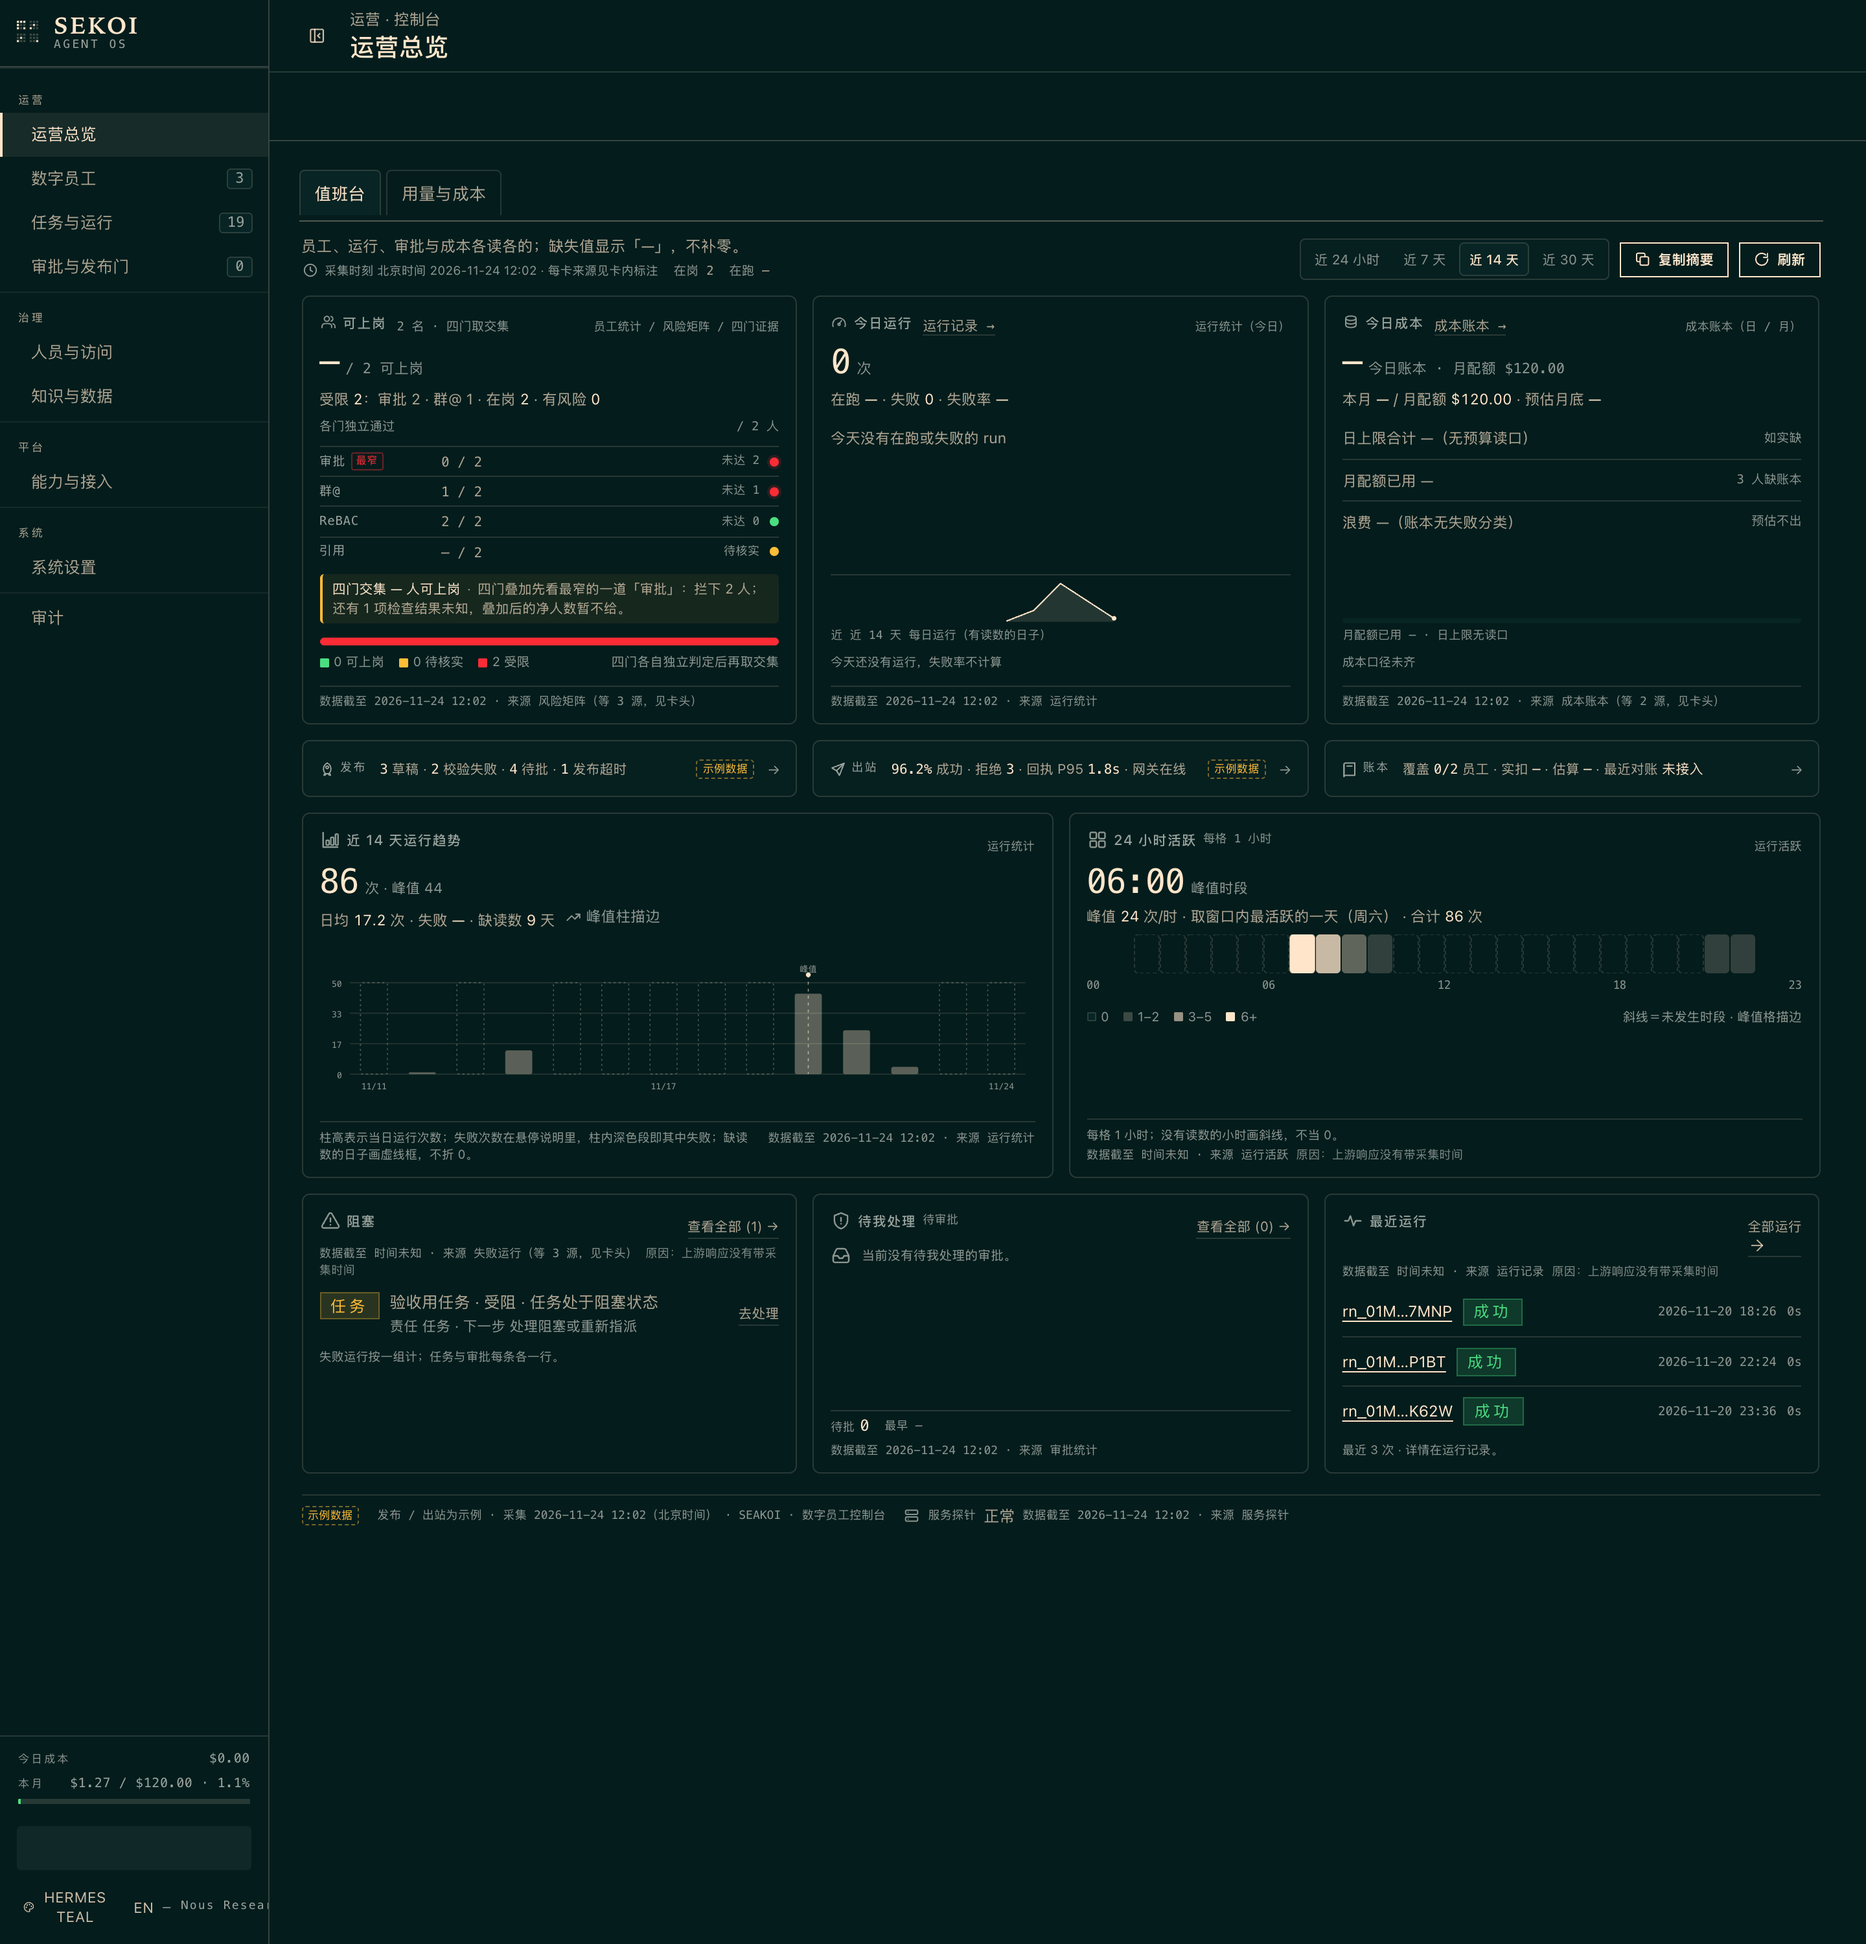
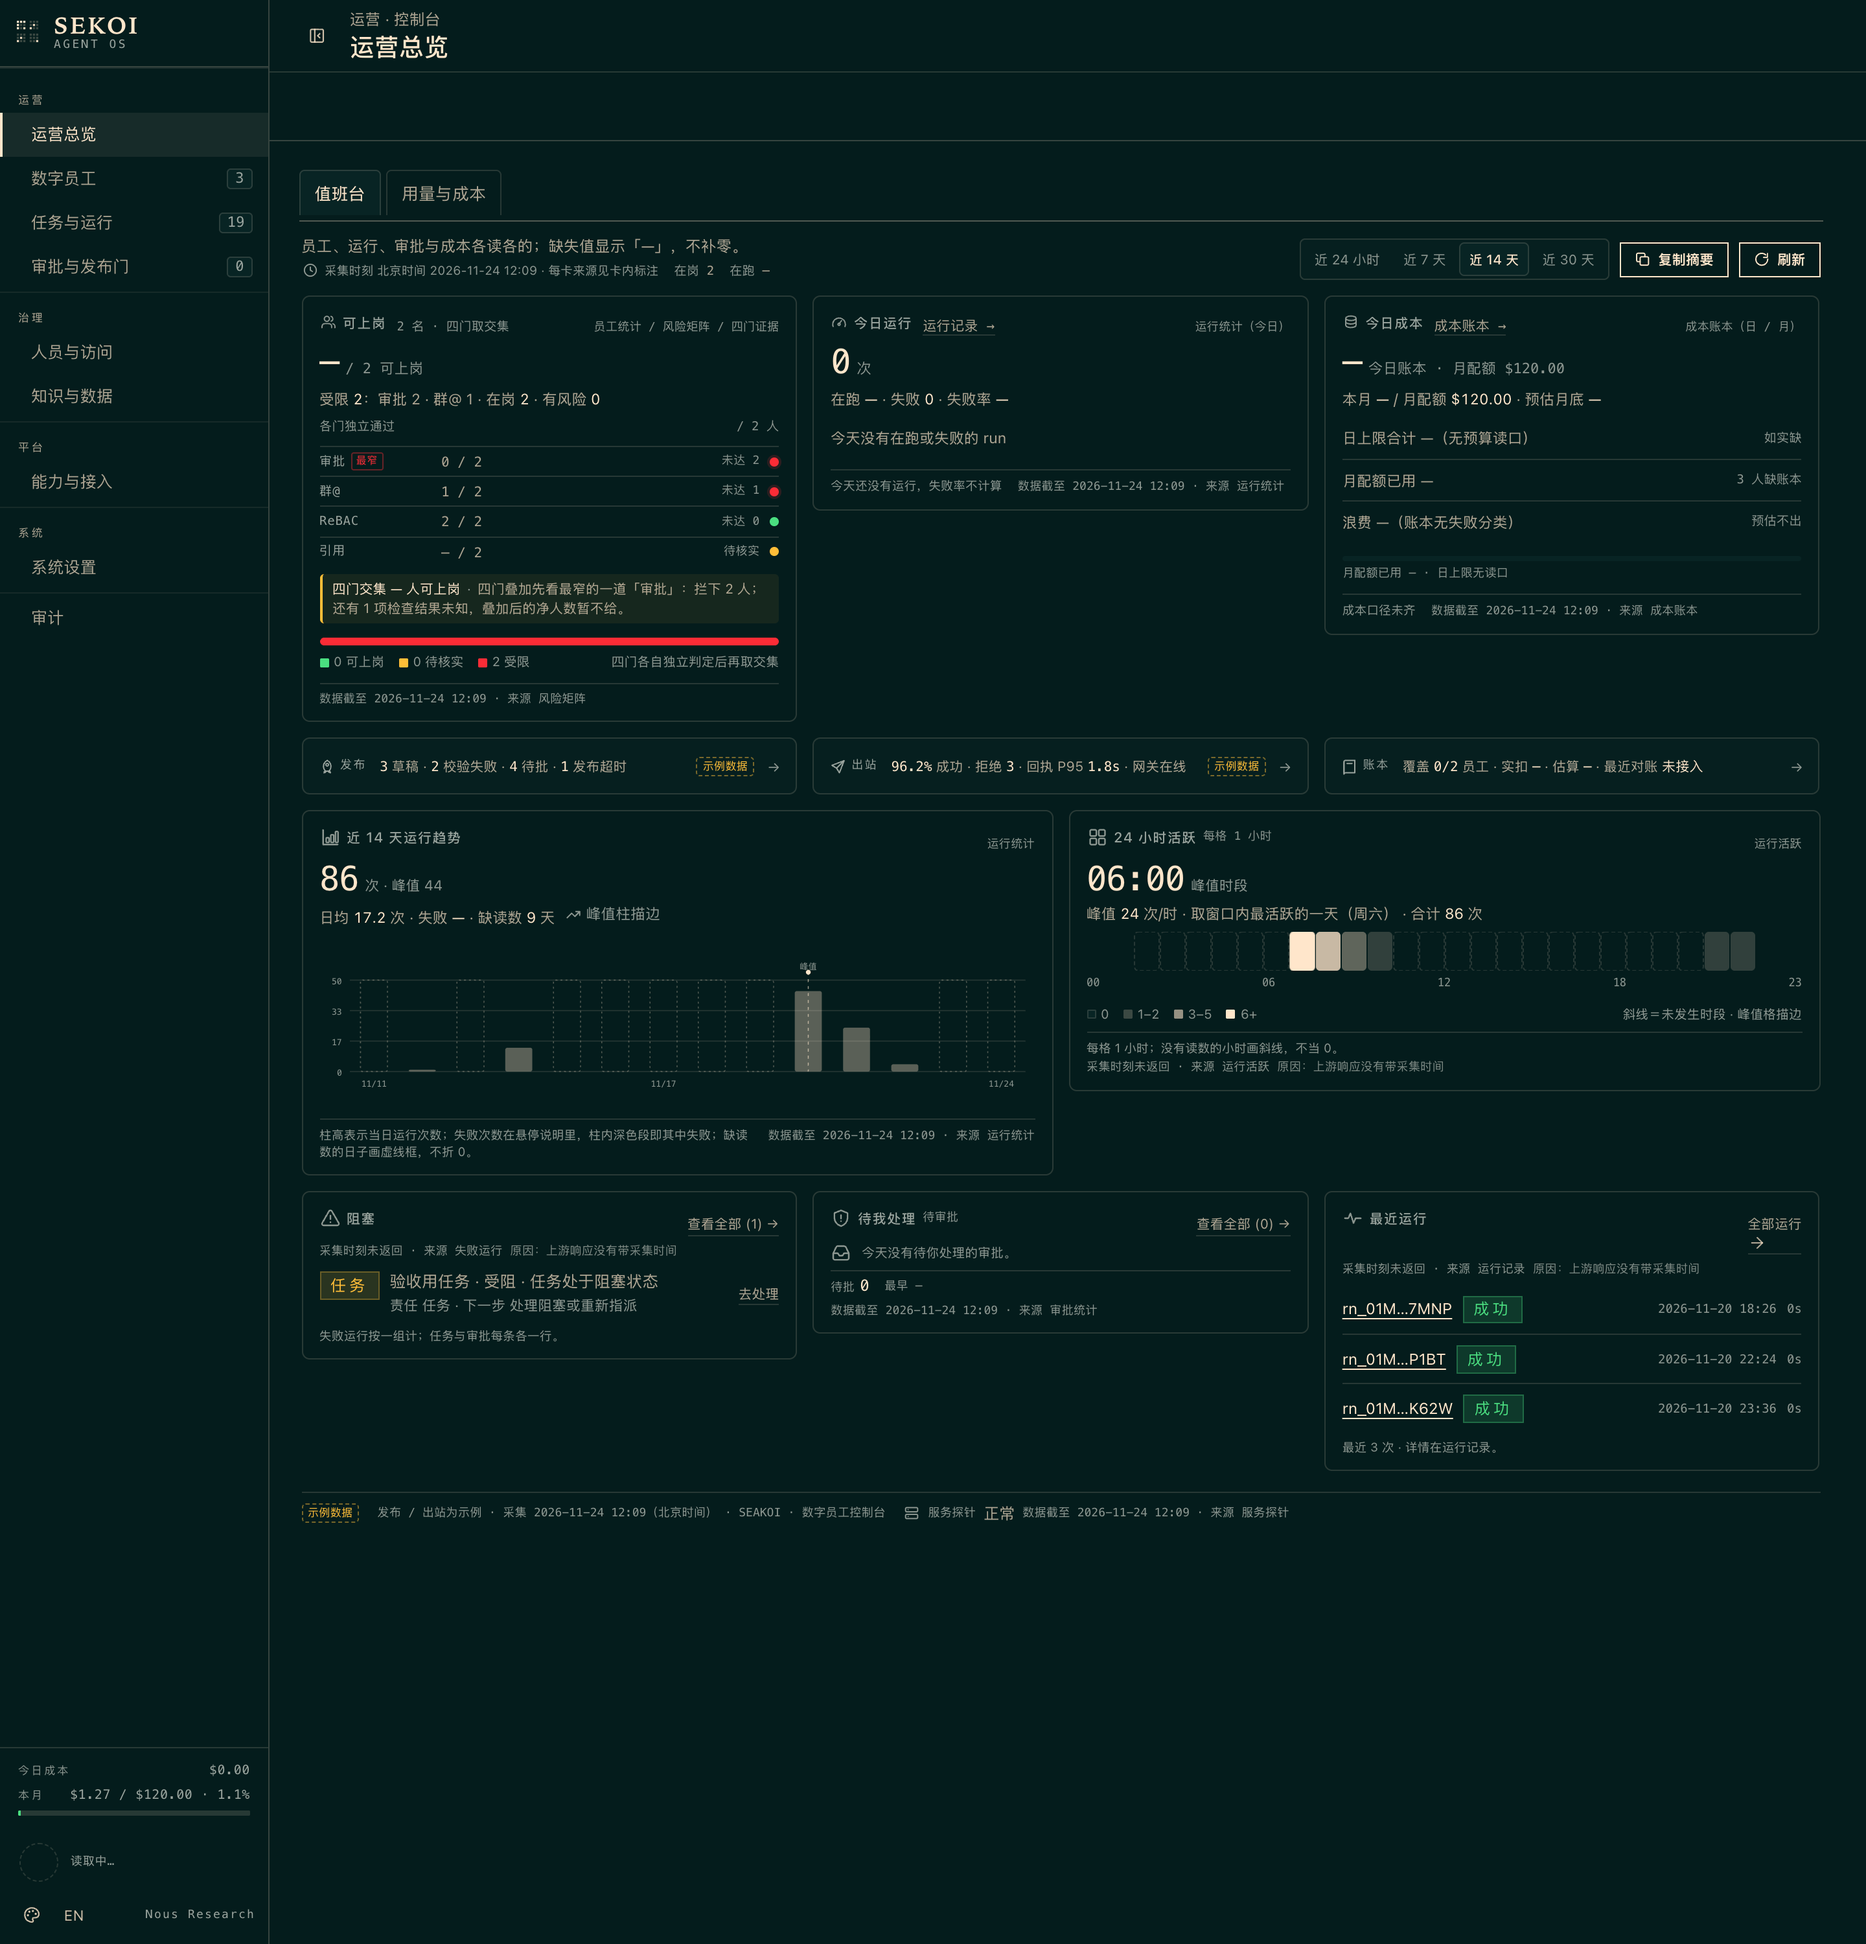
Overview round 2: natural-height cards, drop broken mini-chart, one-line stamps, no min-height fill

diff --git a/web/src/modules/overview/OverviewPage.tsx b/web/src/modules/overview/OverviewPage.tsx
@@ -23,7 +23,7 @@ import {
 } from './overview';
 import { fetchHermesSummary, type HermesSummaryBody } from './api';
 import { COST_CALIBER_TEXT } from '../metrics/costCaliberNote';
-import { SPARK, TREND_H, TREND_PAD, sparkGeometry, trendGeometry } from './VizChart';
+import { TREND_H, TREND_PAD, trendGeometry } from './VizChart';
 import './overview.css';
 
 type Forced = 'loading' | 'empty' | 'error';
@@ -242,24 +242,6 @@ function IconRocket({ className }: IconProps) {
  * 图表基元
  * ========================================================================== */
 
-/** 面积火花线（真实逐日读数；没有读数就不画，不用点阵占位）。 */
-function SparkArea({ values, label, wide = false }: { values: number[]; label: string; wide?: boolean }) {
-  const geo = sparkGeometry(values);
-  if (!geo) return null;
-  return (
-    <svg
-      className={wide ? 'ov5-spark ov5-spark-wide' : 'ov5-spark'}
-      viewBox={`0 0 ${SPARK.w} ${SPARK.h}`}
-      role="img"
-      aria-label={label}
-    >
-      <path className="ov5-spark-area" d={geo.area} />
-      <path className="ov5-spark-line" d={geo.line} />
-      <circle className="ov5-spark-dot" cx={geo.last.x} cy={geo.last.y} r={2.4} />
-    </svg>
-  );
-}
-
 /** 量宽度只为趋势图定 viewBox；jsdom 没有布局，退回 720 不影响任何断言。 */
 function useMeasuredWidth(fallback: number): [RefObject<HTMLDivElement | null>, number] {
   const ref = useRef<HTMLDivElement | null>(null);
@@ -350,32 +332,23 @@ function AsofLine({ states }: { states: Array<Loadable<unknown> | null> }) {
 }
 
 /**
- * 每张卡只留一行弱色口径脚注：可见行报「主来源」的采集时刻，其余来源收进
- * 屏读文本（卡头已列全部来源），不再让 3 行「数据截至」把卡撑高。
+ * 每张卡只留一行弱色脚注：有采集时刻写「数据截至 X · 来源 A」；没有就写
+ * 「采集时刻未返回 · 来源 A」并附原因。其余来源只进 title，不在卡底重复
+ * 第二遍「数据截至」（信息量不增，只增高）。
  */
 function Freshness({ items, testid }: { items: StampSource[]; testid?: string }) {
   const stamps = items.map(({ source, state }) => ({ source, ...sourceStamp(state) }));
   const primary = stamps.find((stamp) => stamp.shown !== null) ?? stamps[0];
-  const rest = stamps.filter((stamp) => stamp !== primary);
   if (!primary) return <div className="ov5-stamps" data-testid={testid} />;
+  const title = stamps
+    .map((stamp) => `${stamp.source}：${stamp.shown ?? '采集时刻未返回'}${stamp.reason ? `（${stamp.reason}）` : ''}`)
+    .join(' · ');
   return (
-    <div className="ov5-stamps" data-testid={testid}>
+    <div className="ov5-stamps" data-testid={testid} title={items.length > 1 ? title : undefined}>
       <span className="ov5-stamp">
-        <span>
-          数据截至 {primary.shown ?? '时间未知'} · 来源 {primary.source}
-          {items.length > 1 ? `（等 ${items.length} 源，见卡头）` : ''}
-        </span>
+        <span>{primary.shown ? `数据截至 ${primary.shown}` : '采集时刻未返回'} · 来源 {primary.source}</span>
         {primary.reason ? <em>原因：{primary.reason}</em> : null}
       </span>
-      {rest.length > 0 ? (
-        <span className="ov5-sr">
-          {rest.map((stamp) => (
-            <span key={stamp.source}>
-              {`数据截至 ${stamp.shown ?? '时间未知'} · 来源 ${stamp.source}${stamp.reason ? `；原因：${stamp.reason}` : ''}；`}
-            </span>
-          ))}
-        </span>
-      ) : null}
     </div>
   );
 }
@@ -468,8 +441,10 @@ function KpiCard({
         {foot ? <p className="ov5-kpi-foot">{foot}</p> : null}
         {children}
         <IssueRows issues={issues} onRetry={onRetry} testid={testid} />
-        {note ? <div className="ov5-note" title={noteTitle}>{note}</div> : null}
-        <Freshness items={stamps} testid={`${testid}-stamp`} />
+        <div className="ov5-kpi-footline">
+          {note ? <span className="ov5-note" title={noteTitle}>{note}</span> : null}
+          <Freshness items={stamps} testid={`${testid}-stamp`} />
+        </div>
       </CardContent>
     </Card>
   );
@@ -611,14 +586,10 @@ function ReadyCard({
 function TodayRunsCard({
   data,
   kpis,
-  sparkValues,
-  rangeLabel,
   onRetry,
 }: {
   data: DutyData;
   kpis: ReturnType<typeof buildKpis>;
-  sparkValues: number[];
-  rangeLabel: string;
   onRetry: () => void;
 }) {
   const today = data.todayStats.k === 'ready' ? data.todayStats.data : null;
@@ -663,12 +634,6 @@ function TodayRunsCard({
           </div>
         )}
       </div>
-      {sparkValues.length >= 2 ? (
-        <div className="ov5-mini">
-          <SparkArea values={sparkValues} label={`${rangeLabel}每日运行次数火花线`} wide />
-          <span className="ov5-mini-note">近 {rangeLabel} 每日运行（有读数的日子）</span>
-        </div>
-      ) : null}
     </KpiCard>
   );
 }
@@ -1153,7 +1118,7 @@ function PendingCard({ data, onRetry }: { data: DutyData; onRetry: () => void })
         {rows.length === 0 ? (
           <div className="ov5-empty-line">
             <IconInbox className="ov5-i ov5-i-16" />
-            <span>{data.approvals.k === 'error' ? '审批列表没有读出来（见上方重试）' : '当前没有待我处理的审批。'}</span>
+            <span>{data.approvals.k === 'error' ? '审批列表没有读出来（见上方重试）' : '今天没有待你处理的审批。'}</span>
           </div>
         ) : (
           <ul className="ov5-rows">
@@ -1273,13 +1238,7 @@ export function OverviewView({
     matrix,
   });
   const costView = buildCost(budgetDay, budgetMonth, kpis.total);
-  // 只有「运行」卡有真时间序列（stats14 日桶）；其余卡不画假曲线、也不画点阵占位。
-  const sparkValues =
-    data.stats14.k === 'ready'
-      ? trendWindow(data.stats14.data, range.days)
-          .map((point) => point.runs)
-          .filter((value): value is number => value !== null)
-      : [];
+  // 单卡不再画无轴火花小图：14 天趋势只由下方的 Trend 块承担，避免「图坏了」的观感。
   const runningToday = data.todayStats.k === 'ready' ? data.todayStats.data?.totals?.running ?? null : null;
   const healthSources = [
     { label: '员工统计', state: data.employees },
@@ -1477,7 +1436,7 @@ export function OverviewView({
       {/* 首读时不盖整页骨架：每张卡各自有「读取中 / —」形制，页面不会先空一块再跳版。 */}
       <div className="ov5-homegrid r3" data-busy={anyLoading ? '1' : undefined}>
         <ReadyCard data={data} matrix={matrix} kpis={kpis} onRetry={onRetry} />
-        <TodayRunsCard data={data} kpis={kpis} sparkValues={sparkValues} rangeLabel={range.label} onRetry={onRetry} />
+        <TodayRunsCard data={data} kpis={kpis} onRetry={onRetry} />
         <CostCard data={data} kpis={kpis} matrix={matrix} monthUsd={costView.monthUsd} onRetry={onRetry} />
       </div>
 

diff --git a/web/src/modules/overview/overview.css b/web/src/modules/overview/overview.css
@@ -91,7 +91,8 @@
 .ov5-homegrid {
   display: grid;
   gap: var(--space-ls-3);
-  align-items: stretch;
+  /* 每张卡按自己的内容收口：不再被邻居拉高后留出无解释空白。 */
+  align-items: start;
   min-width: 0;
 }
 
@@ -113,7 +114,6 @@
   flex-direction: column;
   gap: 6px;
   padding: 11px 13px 10px;
-  min-height: 100%;
 }
 
 .ov5-kpi-hd {
@@ -207,32 +207,6 @@
   margin-left: auto;
 }
 
-.ov5-spark {
-  display: block;
-  width: 92px;
-  height: 30px;
-}
-
-.ov5-spark-wide {
-  width: 100%;
-  height: 34px;
-}
-
-.ov5-mini {
-  display: flex;
-  flex-direction: column;
-  gap: 2px;
-  margin-top: auto;
-  padding-top: 4px;
-  border-top: 1px solid var(--color-border-subtle-ls);
-}
-
-.ov5-mini-note {
-  color: var(--color-text-faint-ls);
-  font-family: var(--font-family-mono-ls);
-  font-size: 9px;
-}
-
 .ov5-meter {
   display: flex;
   flex-direction: column;
@@ -310,8 +284,24 @@
   line-height: 1.5;
 }
 
-.ov5-kpi-bd .ov5-stamps {
-  margin-top: 4px;
+/* 三张 KPI 卡共用的唯一脚注行：口径说明 + 采集时刻（缺失写「采集时刻未返回」） */
+.ov5-kpi-footline {
+  display: flex;
+  flex-wrap: wrap;
+  align-items: baseline;
+  gap: 2px 12px;
+  margin-top: 2px;
+  padding-top: 5px;
+  border-top: 1px solid var(--color-border-subtle-ls);
+}
+
+.ov5-kpi-footline .ov5-note { flex: 0 1 auto; }
+
+.ov5-kpi-footline .ov5-stamps {
+  flex: 0 1 auto;
+  margin: 0;
+  padding: 0;
+  border: 0;
 }
 
 .ov5-stamp {
@@ -632,7 +622,6 @@ a.ov5-cs:hover { border-color: var(--color-border-ls); }
   flex-direction: column;
   gap: 5px;
   padding: 11px 13px 10px;
-  min-height: 100%;
 }
 
 .ov5-block-hd {

diff --git a/web/src/modules/overview/overview.viz.test.tsx b/web/src/modules/overview/overview.viz.test.tsx
@@ -82,15 +82,12 @@ function view(cells?: Array<{ dow: number; hour: number; count: number }>) {
 }
 
 describe('OM-17 视觉层：火花／点阵／趋势／热力', () => {
-  it('运行卡有面积火花线（闭合面积 + 折线 + 末点圆），员工卡无趋势源就不画点阵', async () => {
+  it('单卡不再画无轴火花小图；没有趋势源也不拿点阵占位', async () => {
     await render(view());
     const runs = container.querySelector('[data-testid="ov6-kpi-runs"]')!;
-    const area = runs.querySelector('.ov5-spark-area');
-    expect(area).toBeTruthy();
-    // 面积路径必须闭合到底边（Z 结尾），否则不是基线 spark() 的 area 分支。
-    expect(area?.getAttribute('d')).toMatch(/^M[-\d.]+ [-\d.]+( L[-\d.]+ [-\d.]+)+ L[-\d.]+ [-\d.]+ Z$/);
-    expect(runs.querySelector('.ov5-spark-line')?.getAttribute('stroke-width')).toBeNull();
-    expect(runs.querySelector('.ov5-spark-dot')?.getAttribute('r')).toBe('2.4');
+    // P0 修复：删掉看起来「图坏了」的 40px 小图，卡高按内容收紧。
+    expect(runs.querySelector('.ov5-spark')).toBeNull();
+    expect(runs.textContent).toContain('今天没有在跑或失败的 run');
 
     // 无趋势源的卡不拿点阵占位：员工卡换成一排四门真读数行。
     const employees = container.querySelector('[data-testid="ov6-kpi-employees"]')!;

diff --git a/web/src/modules/overview/OverviewPage.test.tsx b/web/src/modules/overview/OverviewPage.test.tsx
@@ -162,7 +162,7 @@ describe('OverviewView', () => {
       <OverviewView data={data} matrix={{ k: 'ready', data: { items: [] } }} loading={false} onRetry={() => {}} />,
     );
     const cost = container.querySelector('[data-testid="ov6-kpi-cost"]')?.textContent ?? '';
-    expect(cost).toContain('数据截至 时间未知 · 来源 成本账本');
+    expect(cost).toContain('采集时刻未返回 · 来源 成本账本');
     expect(cost).toContain('原因：上游响应没有带采集时间');
     expect(container.textContent ?? '').not.toContain('读取于');
   });
